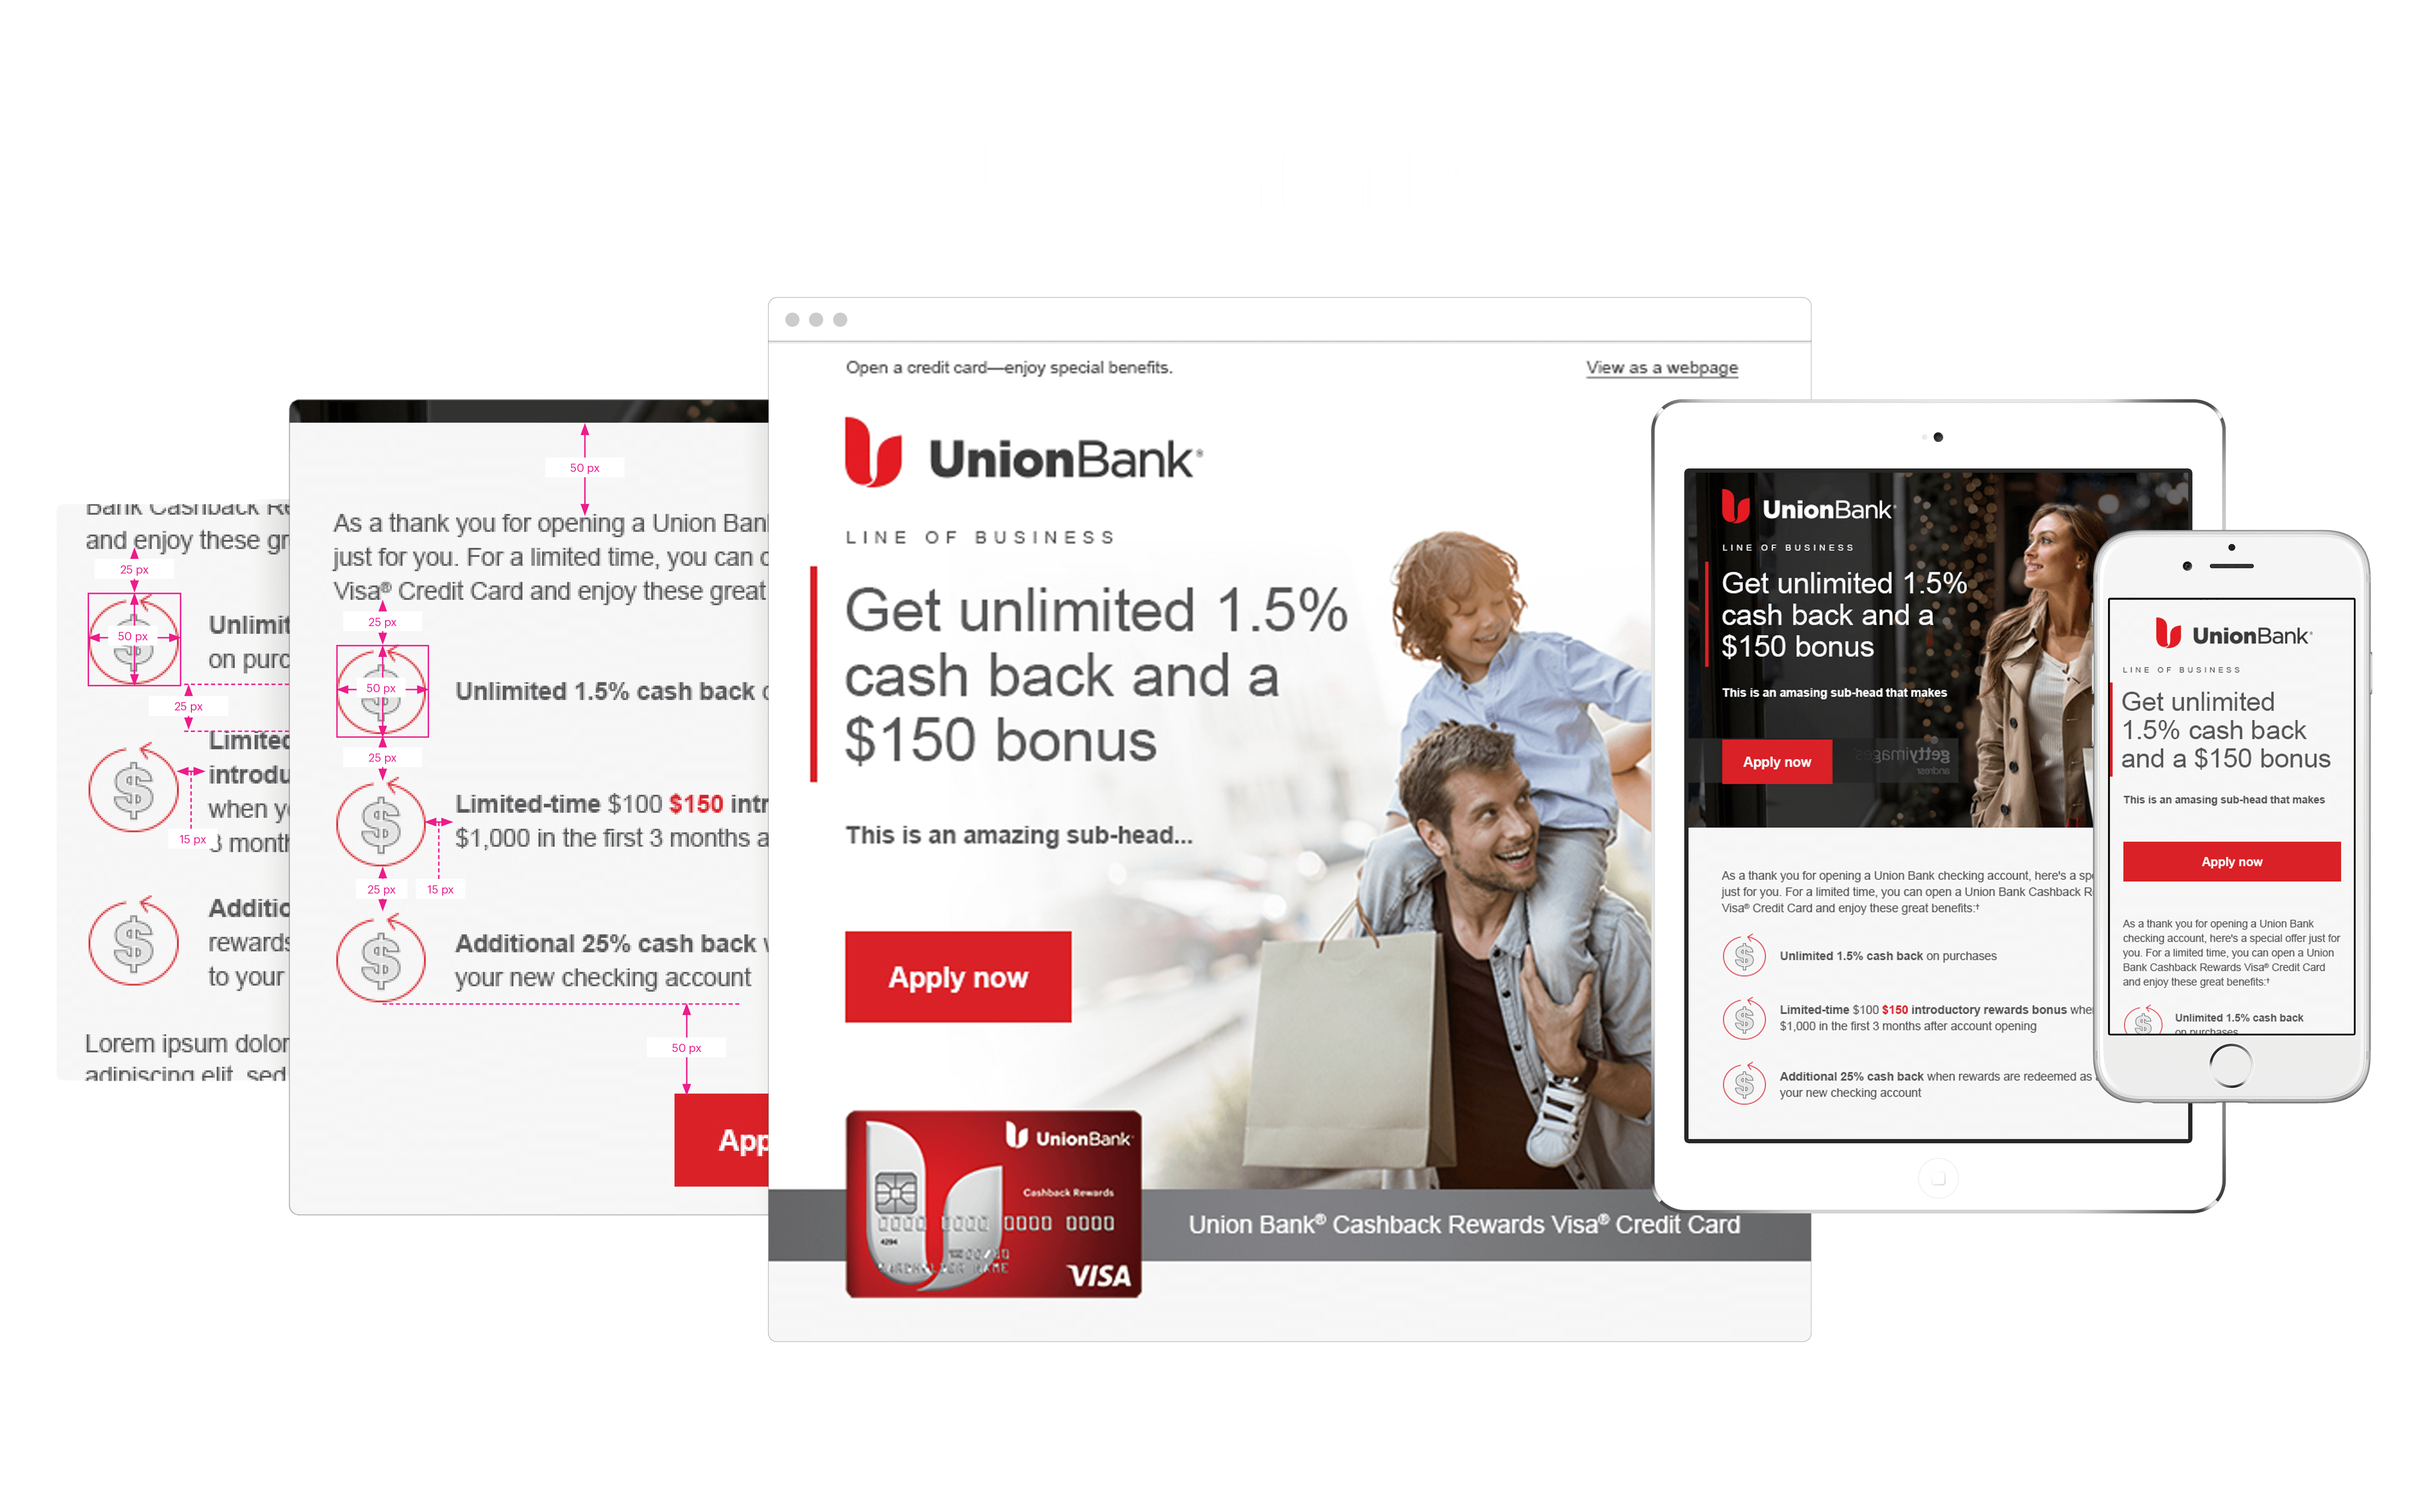
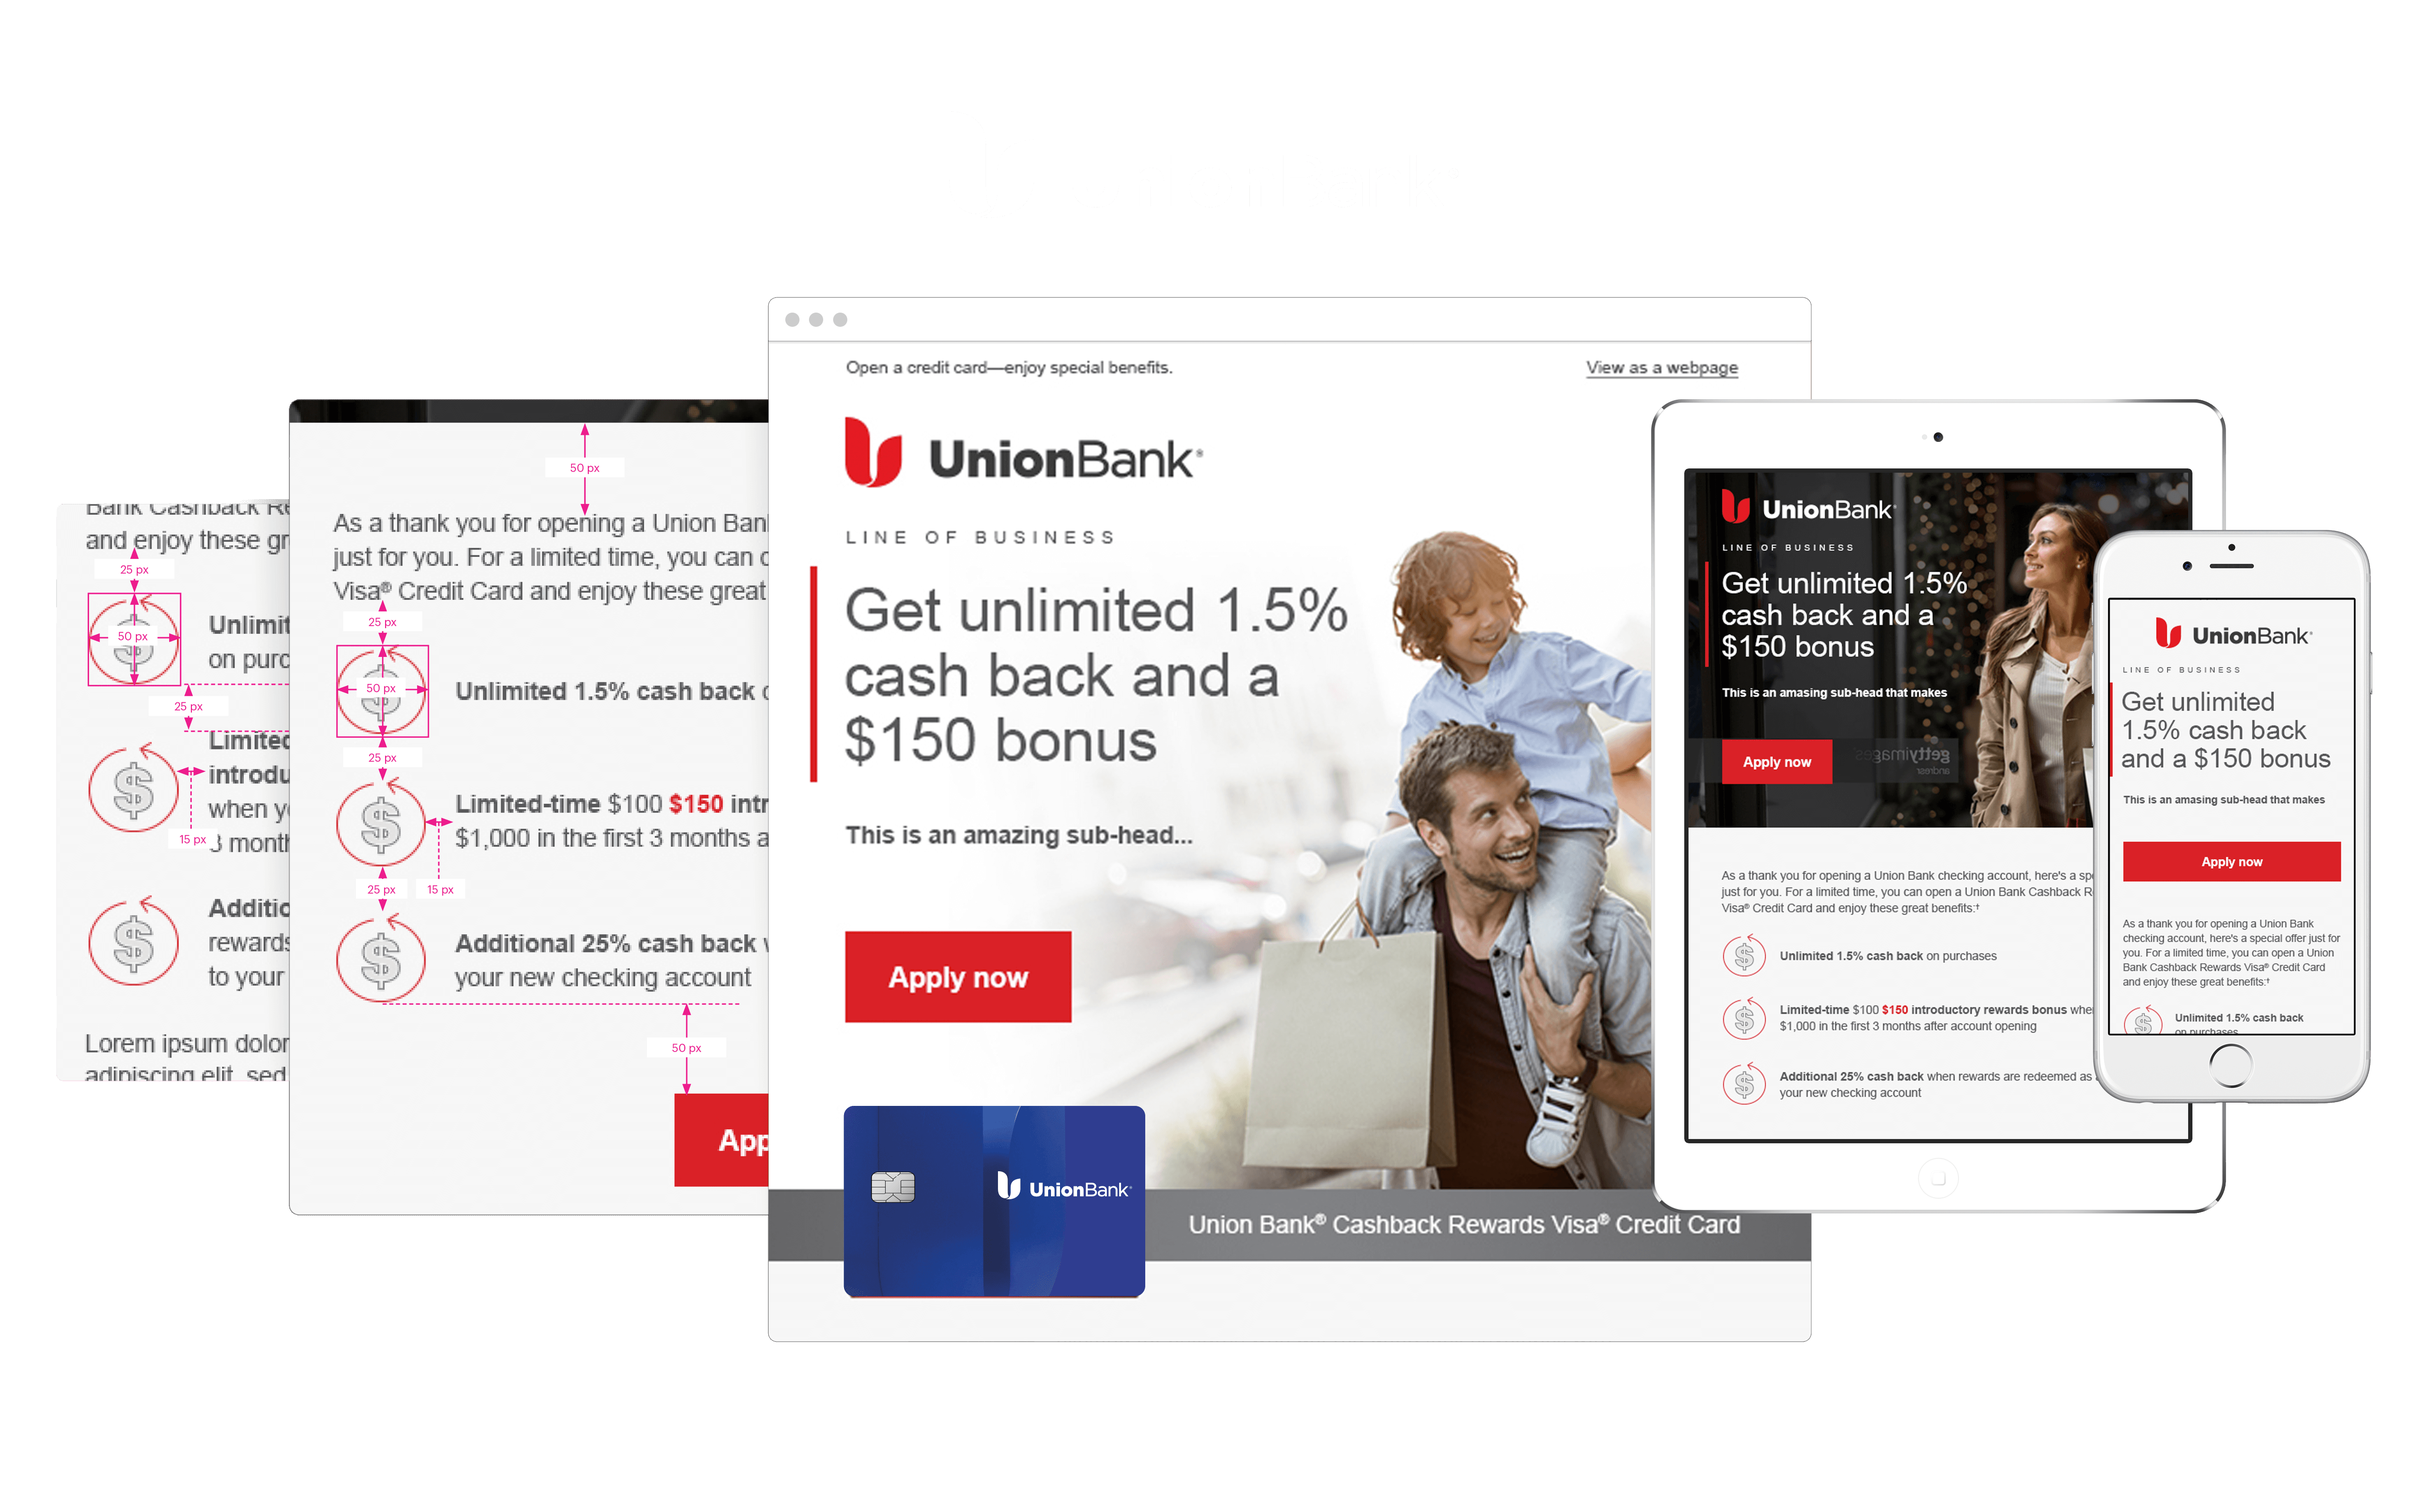
Home Page Email Spec Update

Changed region(s): [[0.3438, 0.7122, 0.5, 0.867]]

diff --git a/index.php b/index.php
@@ -47,7 +47,7 @@
     		<div class="jumbotron" id="ub-cool-grey3">
       			<div class="container-fluid">
         			<div class="row">
-                    	<a name="wlt-ub"><img src="images/tag-ub-lunar-new-year.png" alt="Union Bank" class="img-responsive"></a>
+                    	<a name="wlt-ub"><img src="images/tag-ub-email-design-specs.png" alt="Union Bank" class="img-responsive"></a>
                    	</div>
       			</div>
     		</div>
